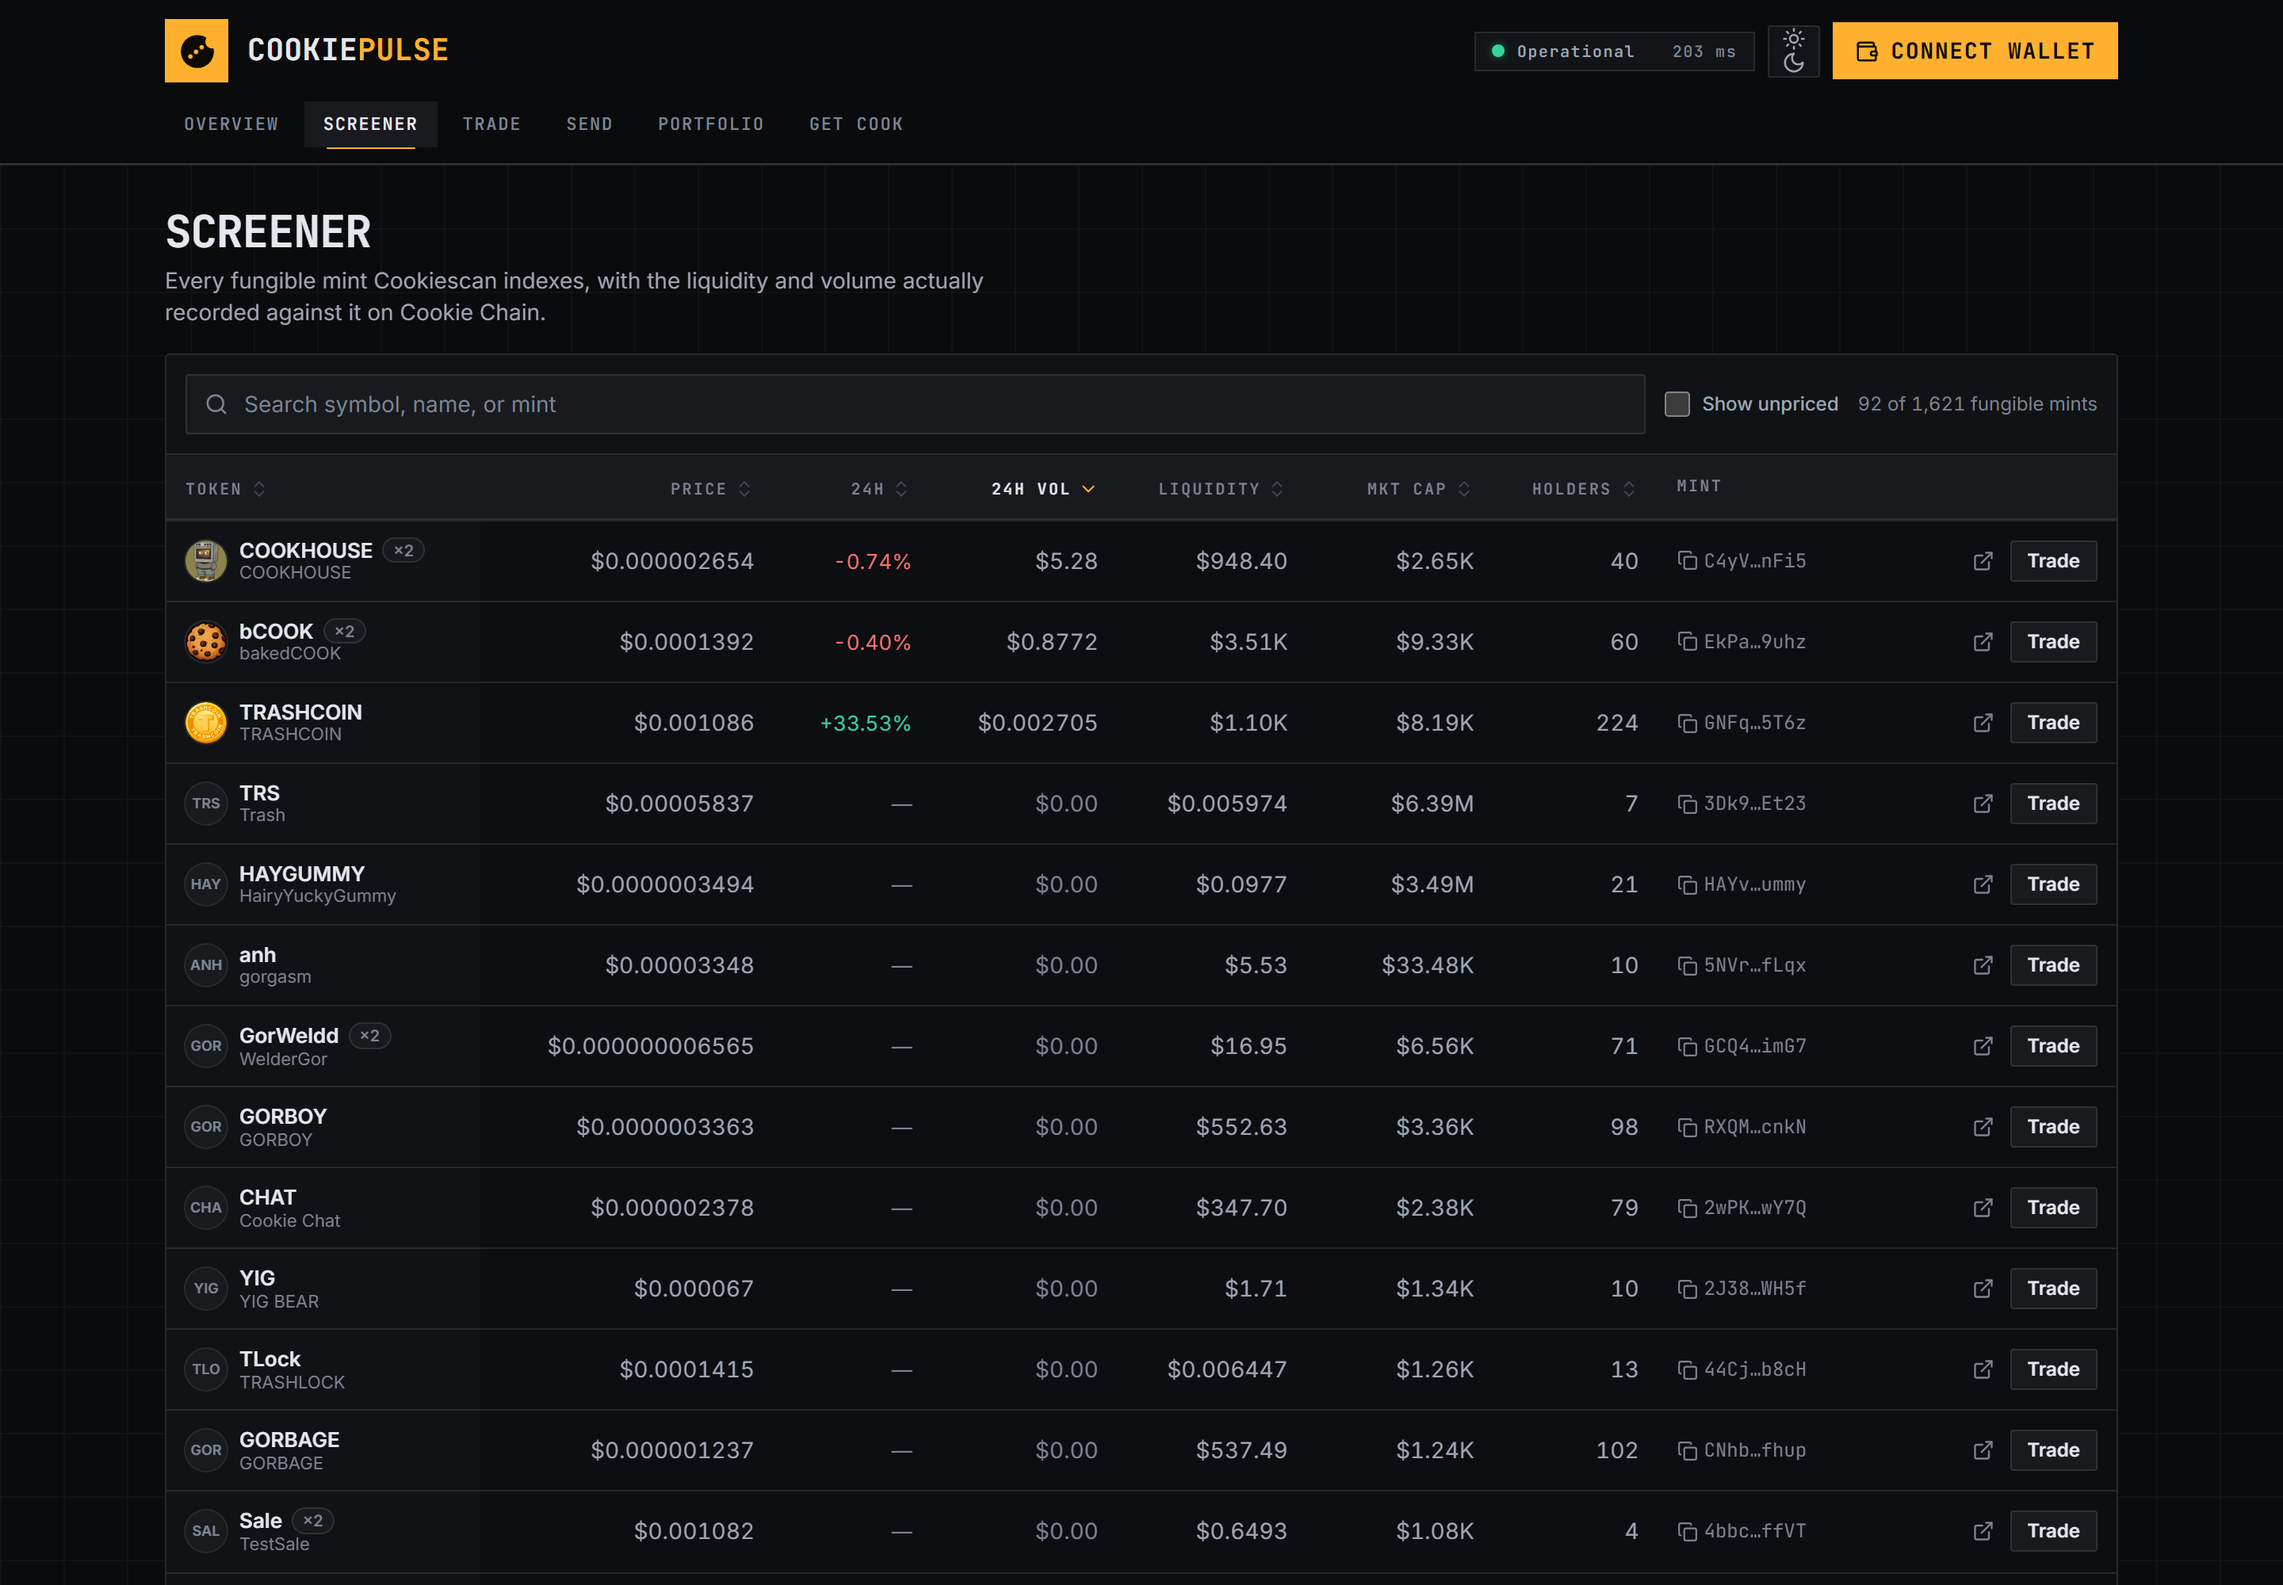
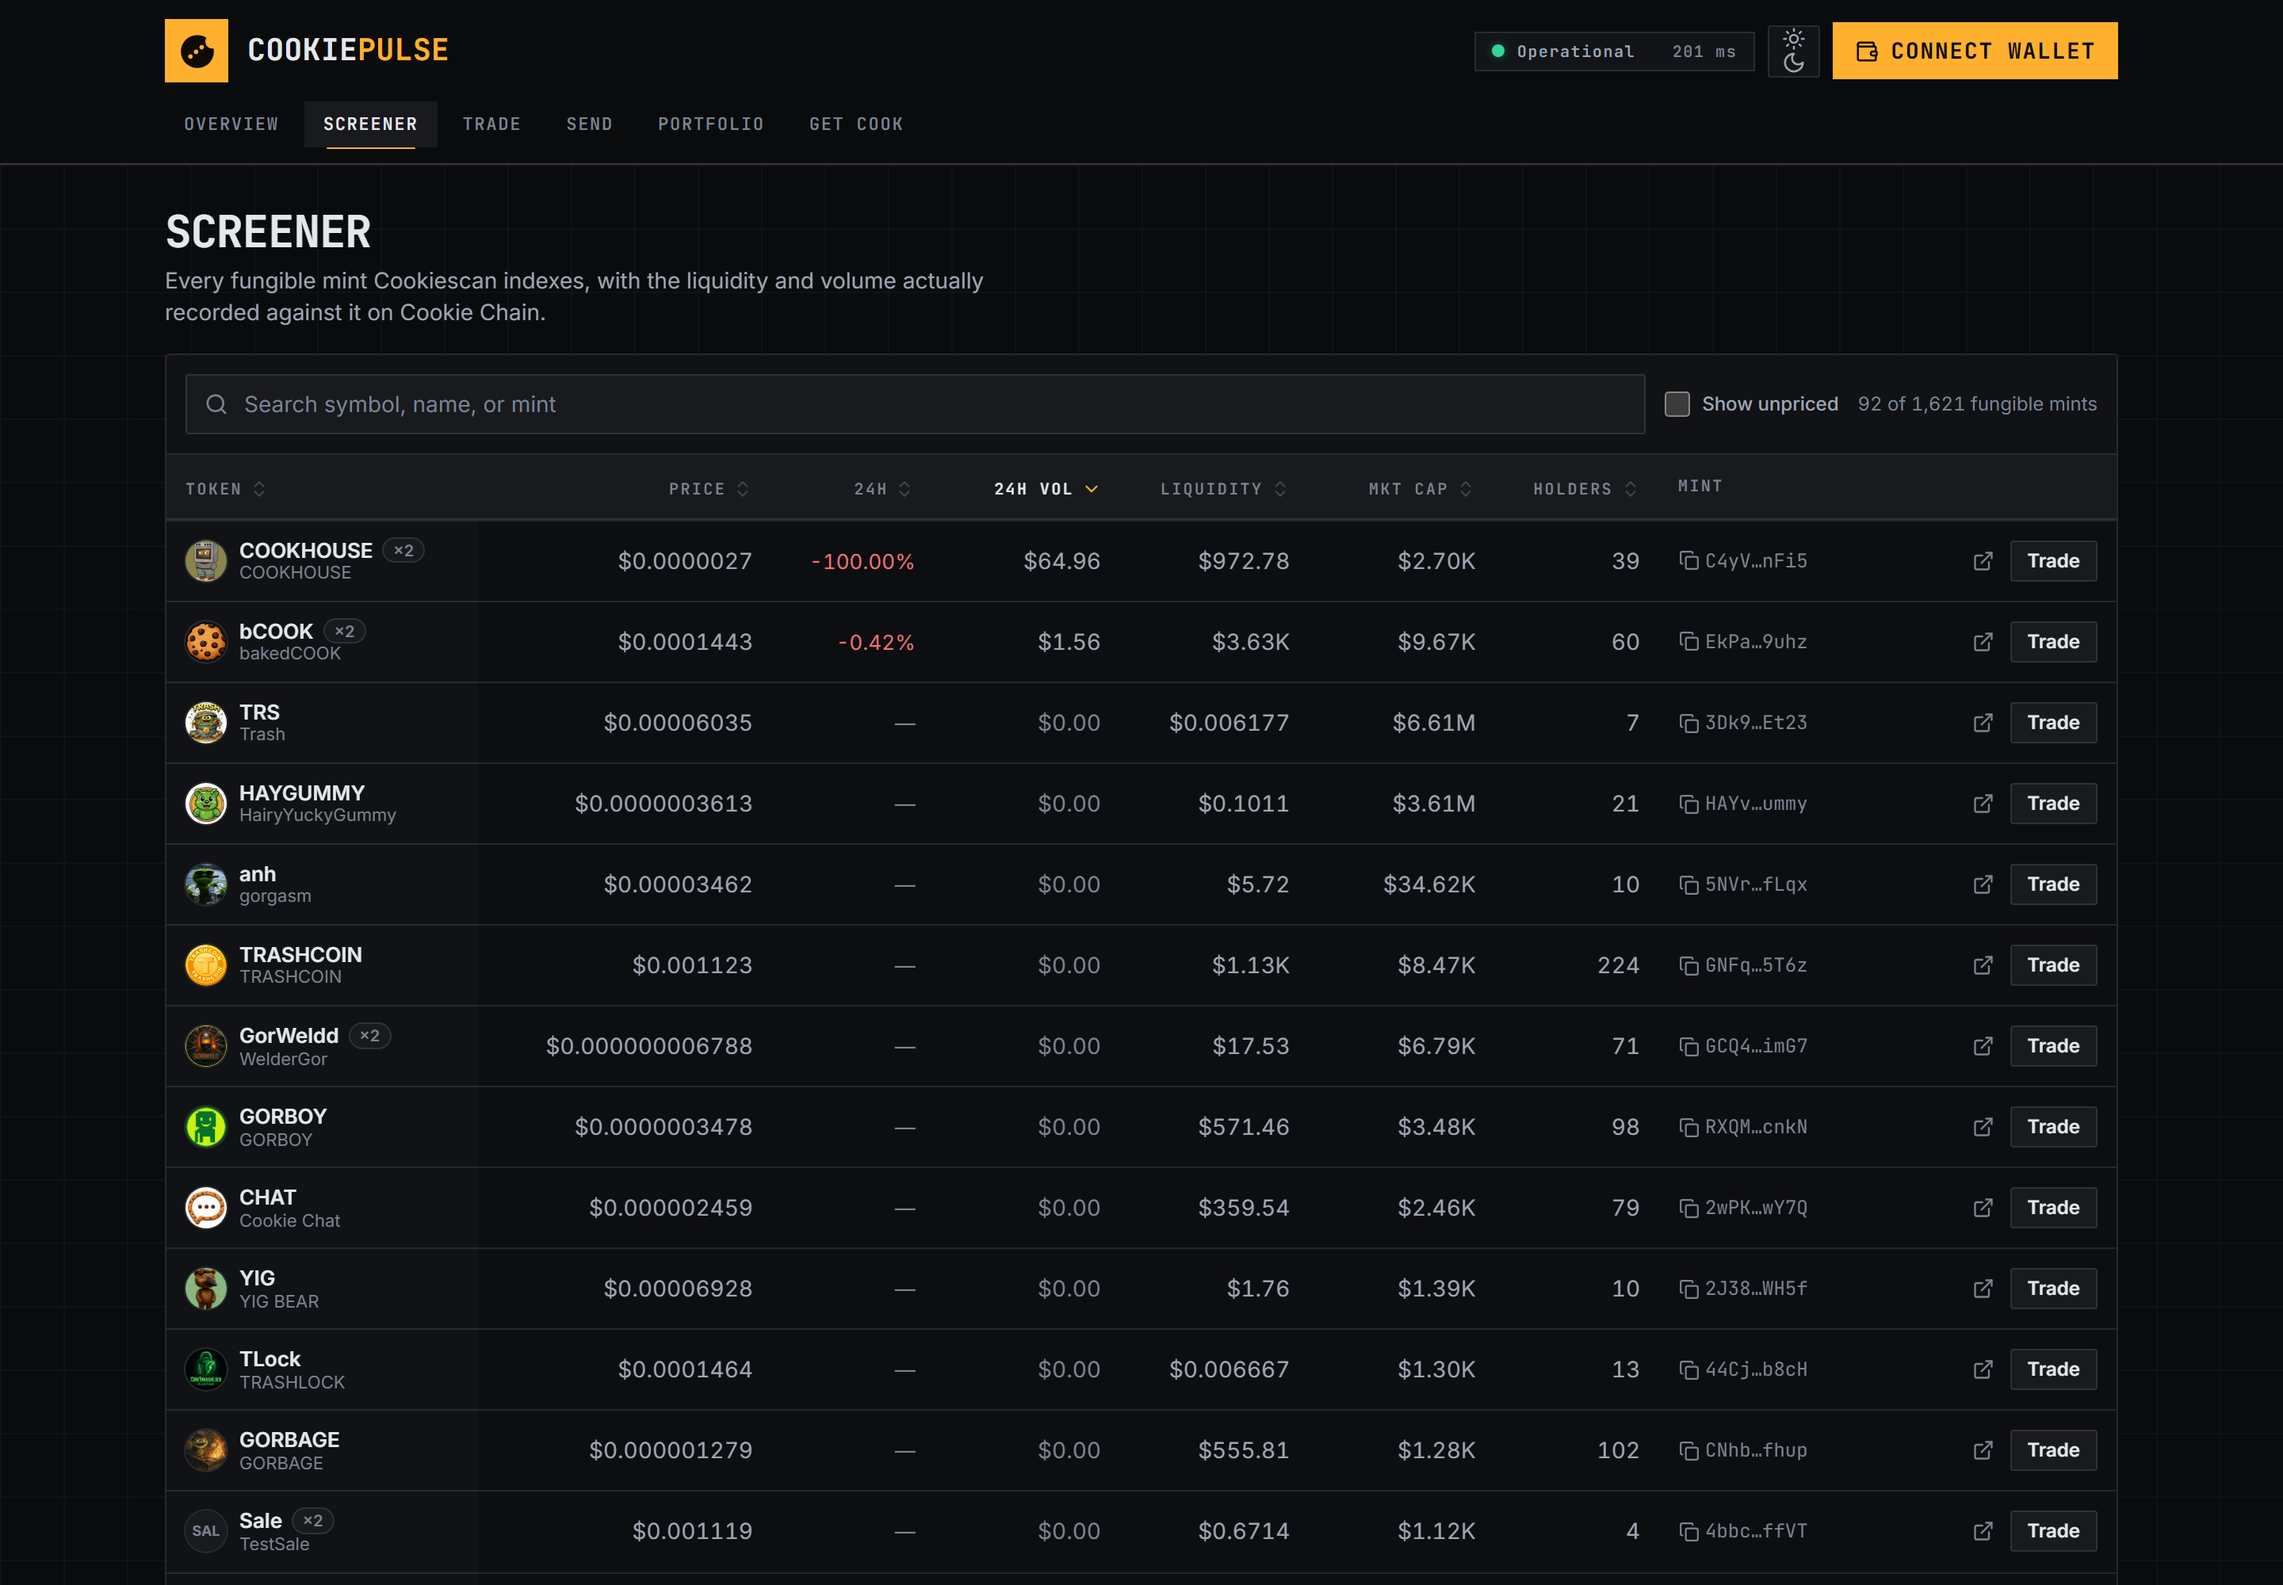
Wait for images before capturing the README screenshots
The set captured before the gateway fix showed a table of letter badges,
because the capture timed itself only on the reveal system: it scrolled to
trigger the IntersectionObservers, waited out the longest reveal, and
photographed. Token logos are lazy-loaded from an IPFS gateway that answers
in 4-6s cold, so every one of them was still in flight.

The capture now waits for every img to finish (25s cap) and awaits decode()
as well, because a decoded-but-unpainted image still screenshots blank. It
also reports how many loaded per shot, so a silent regression to badges shows
up in the run output instead of in the committed PNG.

  screener.png   reveals 1/1   images 39/39

Recaptured against the live deployment. Every token now shows its real logo
except TestSale, whose registry entry genuinely has no logo.

Noted while reviewing the result, not a defect: COOKHOUSE renders -100.00%
against a nonzero price, which reads as a contradiction. That figure is
upstream's -- api.cookiescan.io returns change24h -99.99999996020644 for that
mint, and the app reports what the indexer says. Adding a filter to suppress
values the source publishes would be a worse failure than showing them.

diff --git a/scripts/shots.ts b/scripts/shots.ts
@@ -109,10 +109,33 @@ const SETTLE = `(async () => {
   }
   window.scrollTo(0, 0);
   await new Promise(r => setTimeout(r, 900));
+
+  // Wait for images, with a cap.
+  //
+  // Token logos are lazy-loaded from an IPFS gateway that answers in 4-6s cold, so a capture timed
+  // only on the reveal system photographs a table of letter-badge placeholders and calls it the
+  // product. Decoding is awaited rather than just the complete flag, because a decoded-but-not-
+  // image still screenshots blank.
+  const deadline = Date.now() + 25000;
+  for (;;) {
+    const imgs = [...document.querySelectorAll('img')];
+    const pending = imgs.filter(i => !i.complete);
+    if (pending.length === 0 || Date.now() > deadline) break;
+    await new Promise(r => setTimeout(r, 400));
+  }
+  await Promise.all(
+    [...document.querySelectorAll('img')].map(i =>
+      i.decode ? i.decode().catch(() => {}) : Promise.resolve()
+    )
+  );
+  await new Promise(r => setTimeout(r, 600));
   const targets = [...document.querySelectorAll('[data-reveal]')];
+  const imgs = [...document.querySelectorAll('img')];
   return JSON.stringify({
     total: targets.length,
     hidden: targets.filter(e => +getComputedStyle(e).opacity < 1).length,
+    images: imgs.length,
+    imagesLoaded: imgs.filter(i => i.complete && i.naturalWidth > 0).length,
   });
 })()`;
 
@@ -153,10 +176,9 @@ async function main() {
         awaitPromise: true,
         returnByValue: true,
       });
-      const reveal = JSON.parse(settled.result.value ?? '{"total":0,"hidden":0}') as {
-        total: number;
-        hidden: number;
-      };
+      const reveal = JSON.parse(
+        settled.result.value ?? '{"total":0,"hidden":0,"images":0,"imagesLoaded":0}',
+      ) as { total: number; hidden: number; images: number; imagesLoaded: number };
       if (reveal.hidden > 0) {
         failures++;
         console.error(
@@ -172,7 +194,8 @@ async function main() {
       writeFileSync(out, Buffer.from(png.data, 'base64'));
       console.log(
         `  ${shot.file.padEnd(16)} ${shot.path.padEnd(11)} ${WIDTH * SCALE}x${shot.height * SCALE}` +
-          `  reveals ${reveal.total - reveal.hidden}/${reveal.total}`,
+          `  reveals ${reveal.total - reveal.hidden}/${reveal.total}` +
+          `  images ${reveal.imagesLoaded}/${reveal.images}`,
       );
     }
     cdp.close();
